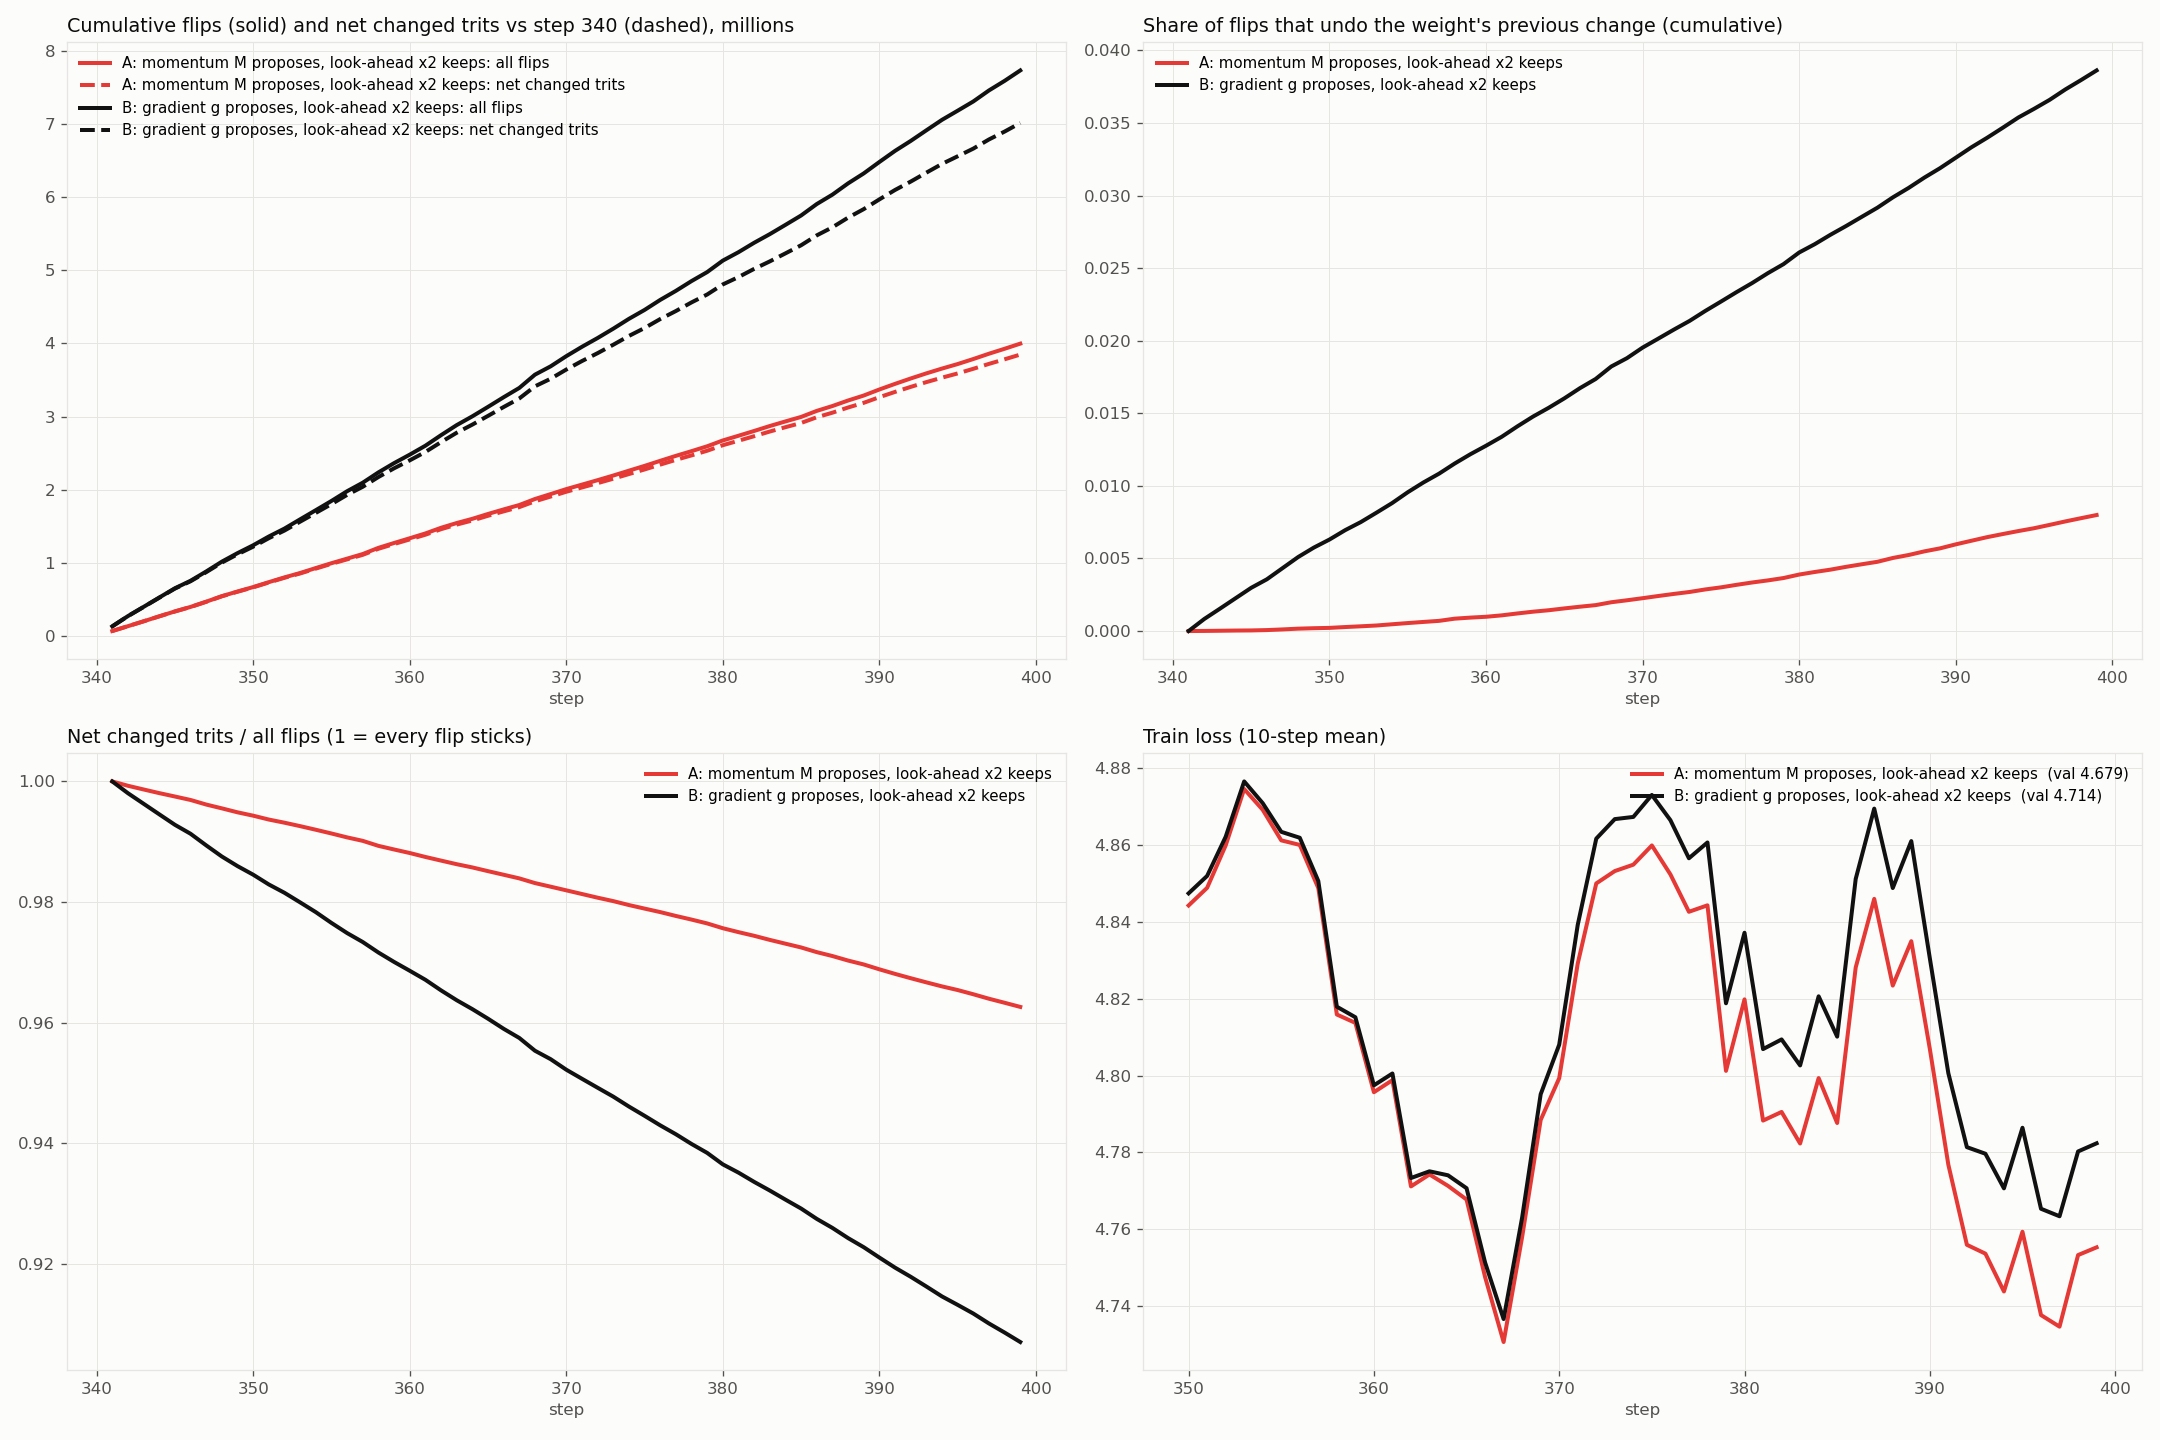
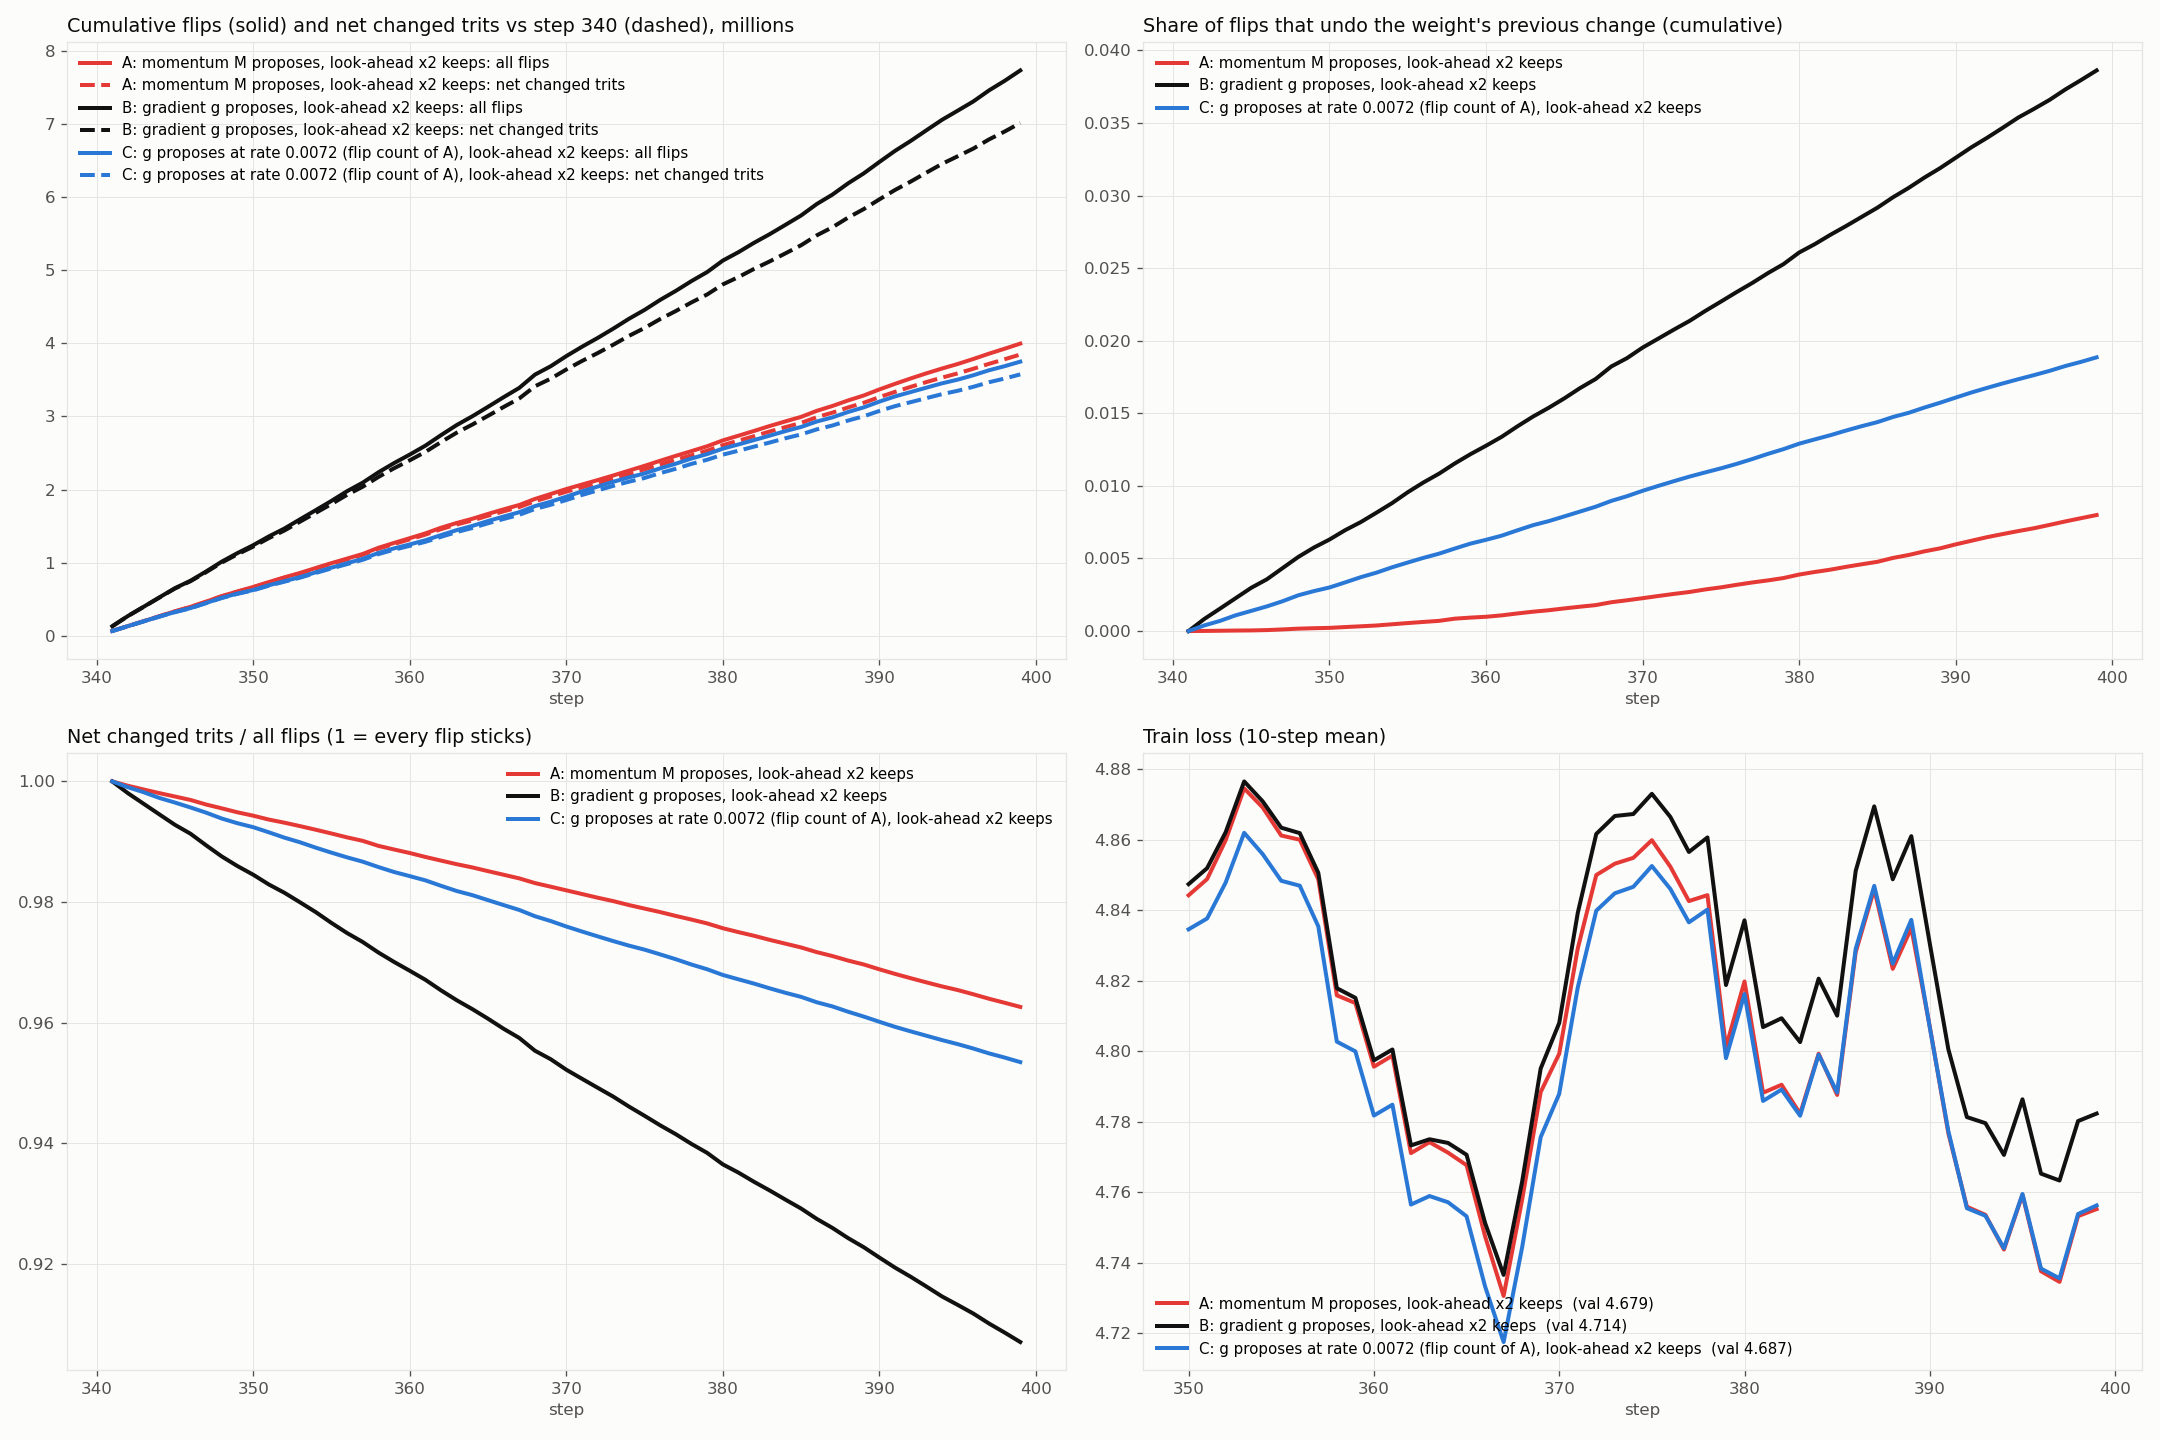
Branch C (matched flip count): momentum at 11M is mostly a step-size reducer

diff --git a/scripts/plots/plot_branch340.py b/scripts/plots/plot_branch340.py
@@ -12,7 +12,8 @@ import matplotlib.pyplot as plt
 
 SURFACE, INK, INK2, GRID = "#fcfcfb", "#0b0b0b", "#52514e", "#e6e5e1"
 B = [("branch340_A", "A: momentum M proposes, look-ahead x2 keeps", "#e53935"),
-     ("branch340_B", "B: gradient g proposes, look-ahead x2 keeps", "#111111")]
+     ("branch340_B", "B: gradient g proposes, look-ahead x2 keeps", "#111111"),
+     ("branch340_C", "C: g proposes at rate 0.0072 (flip count of A), look-ahead x2 keeps", "#2a78d6")]
 NW = 84_934_656  # ternary weights (sum of N*K over the 84 layers)
 
 

diff --git a/docs/RUNS.md b/docs/RUNS.md
@@ -1071,3 +1071,32 @@ Same config and batches (fast rate ramp, fp32 tail, master's tail LR; `screen_10
 - Half the flips: 0.06-0.08% of trits per step vs 0.12-0.16% for la_xb2; ~19% of momentum
   proposals survive the filter (la_xb2: ~40%).
 - State: 256*(N+K) floats per layer = 44.8M floats (179 MB fp32) for 85M ternary weights.
+
+### How does the momentum help? (diagnostics at 11M and 210M tokens, branches from step 340)
+
+Per-step diagnostics (`--lr_diag`, `docs/figures/m_diag.png`): |M|/|g| reaches 33 (fully
+consistent) at ~0.6M tokens and falls to ~4 (the pure-noise level for beta 0.97) by ~4M; the top 1%
+|M| agree in sign with the batch gradient 85% early, ~48% from 1M on; the gradient after the
+proposed flips points back (cos(g, g') ~ -0.3 from 3M on: the proposal overshoots); the share of g
+inside M's rank-256 subspace falls from ~0.9 to 0.58-0.65 for w_gate/w_up by 10M.
+
+8-batch snapshots (`scripts/analysis/m_snapshot.py`): at step 340 (11M) cos(gbar, M) = -0.003 and
+the top 1% |M| agree in sign with gbar 49%; at 210M, 0.05 and 57%.
+
+Proposal precision at step 340 (`scripts/analysis/proposal_precision.py`, truth = 16-batch mean):
+M proposals are downhill on the true gradient 49.5% of the time (g proposals 67.9%); after the
+look-ahead x2 filter, M-kept 56.9% vs g-kept 65.0%, true gain per flip 0.86e-7 vs 2.3e-7. The
+filter keeps 15% of M proposals vs 41% of g proposals.
+
+60-step branches from step 340, same batches (`docs/figures/branch340.png`):
+
+| branch | flips | reversals | val |
+|---|---|---|---|
+| A: M proposes, look-ahead x2 (r 0.02) | 4.00M | 0.8% | **4.679** |
+| B: g proposes, look-ahead x2 (r 0.02) | 7.73M | 3.9% | 4.714 |
+| C: g proposes, look-ahead x2 at r 0.0072 (flip count of A) | 3.75M | 1.9% | 4.687 |
+
+At this point the momentum works mostly as a step-size reducer: its proposals carry no direction
+information, so the filter rejects most of them and fewer flips get through (the flips overshoot
+together). Matching the flip count with plain gradient proposals recovers ~75% of the A-B gap;
+the rest (0.008) is within noise, with somewhat fewer reversals for A.
